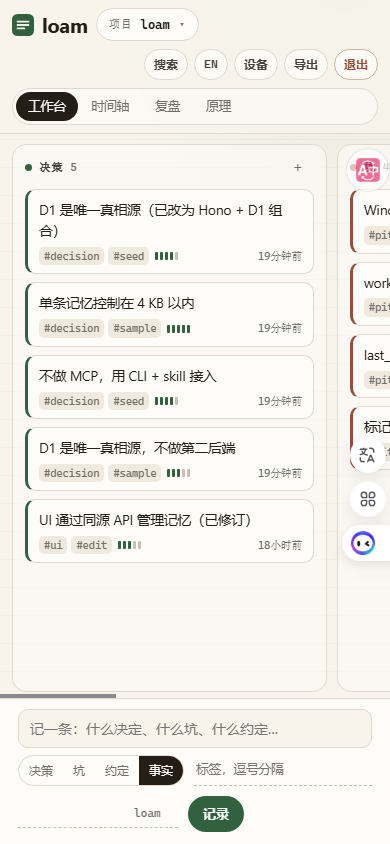
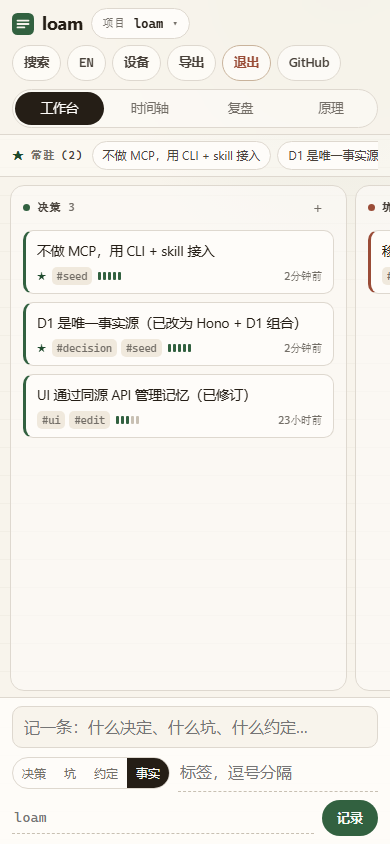
feat(worker): bootstrap the schema on deploy and fit the workbench to phones
The deploy script applies the idempotent schema before wrangler deploy so the one-click button ends with a usable database. The workbench gets a 640px breakpoint: scrollable action row, equal-width tabs, 91% lanes, two-row capture, 16px inputs and safe-area padding.

diff --git a/worker/public/styles.css b/worker/public/styles.css
@@ -62,6 +62,7 @@ a { color: var(--accent-ink); }
   background: transparent;
   transition: background .16s, border-color .16s, color .16s;
   white-space: nowrap;
+  text-decoration: none;
 }
 .btn.primary { background: var(--accent); color: oklch(98% 0.01 150); }
 .btn.primary:hover { background: var(--accent-ink); }
@@ -89,9 +90,11 @@ a { color: var(--accent-ink); }
 /* ---------- gate ---------- */
 
 .gate {
+  position: relative;
   height: 100dvh; display: grid; place-content: center; justify-items: center;
   gap: 18px; padding: 32px 20px; overflow-y: auto;
 }
+.gate-repo { position: absolute; top: 16px; right: 16px; }
 .gate-card {
   width: min(520px, 100%);
   background: color-mix(in oklch, var(--surface) 92%, transparent);
@@ -556,6 +559,43 @@ a { color: var(--accent-ink); }
   .inspector { inset: 0; width: 100%; max-height: 100dvh; border-radius: 0; border: 0; }
   .model { padding: 12px 12px 28px; }
   .toast { bottom: 132px; }
+}
+
+
+@media (max-width: 640px) {
+  .topbar { padding: calc(8px + env(safe-area-inset-top)) 12px 6px; gap: 6px 8px; }
+  .wordmark.small { font-size: 18px; }
+  .project-button { max-width: 46vw; padding: 5px 10px; }
+  .top-actions {
+    order: 3; width: 100%; margin-left: 0;
+    overflow-x: auto; overscroll-behavior-x: contain;
+    padding-bottom: 2px; gap: 6px;
+    scrollbar-width: none;
+  }
+  .top-actions::-webkit-scrollbar { display: none; }
+  .top-actions .btn { flex: 0 0 auto; padding: 7px 11px; font-size: 12.5px; }
+  .view-tabs { order: 4; padding: 2px; }
+  .view-tab { flex: 1; justify-content: center; padding: 7px 4px; font-size: 12.5px; }
+  .pinned-strip { padding: 6px 12px; gap: 8px; }
+  .pinned-list { flex: 1 1 auto; }
+  .lanes { padding: 8px 10px 6px; gap: 8px; }
+  .lane { flex: 0 0 91%; }
+  .capture { padding: 8px 12px calc(8px + env(safe-area-inset-bottom)); gap: 6px; }
+  .capture textarea { font-size: 16px; min-height: 40px; max-height: 96px; }
+  .capture-row { gap: 8px; }
+  .kind-picker { order: 1; flex: 0 0 auto; max-width: 100%; overflow-x: auto; }
+  .kind-picker button { padding: 6px 9px; }
+  .tags-input { order: 2; flex: 1 1 120px; min-width: 96px; font-size: 16px; padding: 6px 2px; }
+  .project-input { order: 3; flex: 1 1 120px; width: auto; min-width: 0; text-align: left; font-size: 14px; }
+  #add { order: 4; margin-left: auto; }
+  .capture-target { font-size: 11.5px; }
+  .toast { bottom: calc(168px + env(safe-area-inset-bottom)); }
+  .gate { padding: 24px 14px calc(24px + env(safe-area-inset-bottom)); }
+  .gate-card { padding: 26px 18px 20px; border-radius: 16px; }
+  .gate-form input { font-size: 16px; }
+  .gate-repo { top: max(10px, env(safe-area-inset-top)); right: 10px; padding: 5px 10px; }
+  .inspector { padding-bottom: env(safe-area-inset-bottom); }
+  .inspector-body { overscroll-behavior: contain; }
 }
 
 @media (hover: none) {

diff --git a/worker/public/index.html b/worker/public/index.html
@@ -2,7 +2,7 @@
 <html lang="zh-CN">
   <head>
     <meta charset="utf-8">
-    <meta name="viewport" content="width=device-width, initial-scale=1">
+    <meta name="viewport" content="width=device-width, initial-scale=1, viewport-fit=cover">
     <meta name="color-scheme" content="light">
     <title>loam · 项目记忆</title>
     <meta name="description" content="loam 记忆工作台：检索、记录、修订、复盘与原理说明。">
@@ -11,6 +11,7 @@
   </head>
   <body>
     <div id="gate" class="gate">
+      <a class="btn ghost gate-repo" href="https://github.com/yidasanqian/loam" target="_blank" rel="noopener noreferrer" aria-label="GitHub">GitHub</a>
       <div class="gate-card">
         <div class="wordmark" aria-label="loam">
           <svg viewBox="0 0 32 32" width="30" height="30" aria-hidden="true">
@@ -73,6 +74,7 @@
           <button id="devices-open" class="btn ghost" type="button" data-i18n="topbar.devices">设备</button>
           <button id="export" class="btn ghost" type="button" data-i18n="topbar.export">导出</button>
           <button id="logout" class="btn ghost danger" type="button" data-i18n="topbar.logout">退出</button>
+          <a class="btn ghost" href="https://github.com/yidasanqian/loam" target="_blank" rel="noopener noreferrer" aria-label="GitHub">GitHub</a>
         </div>
       </header>
 
